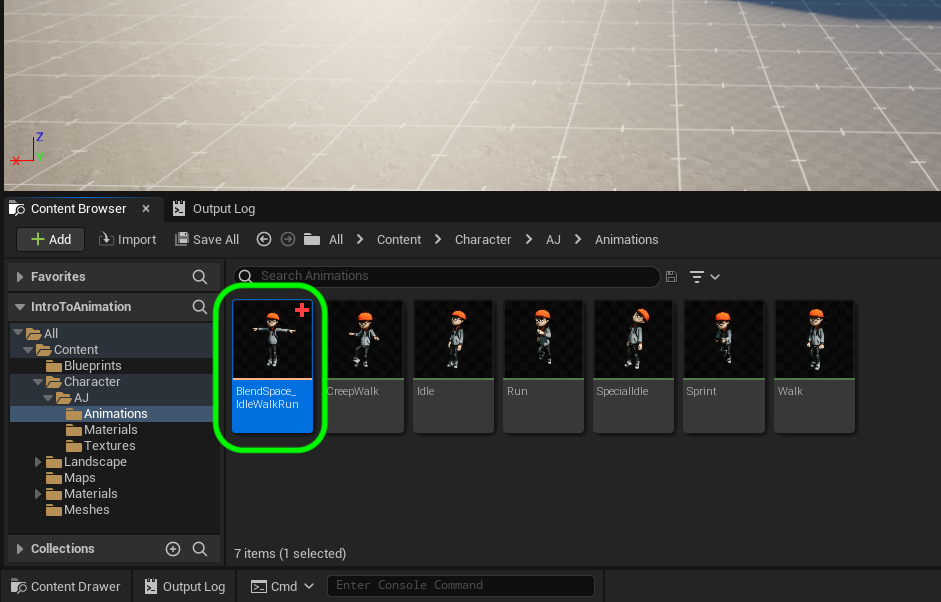
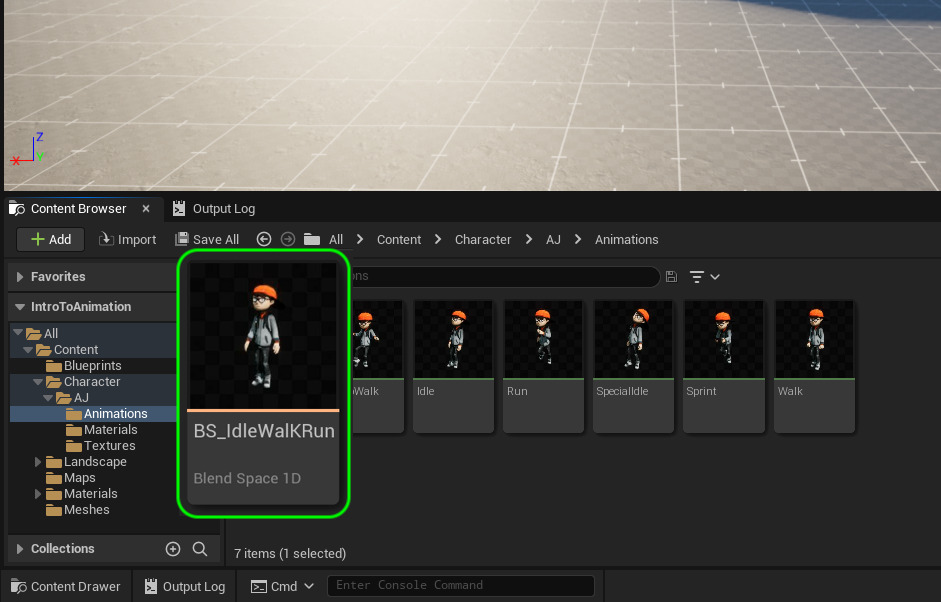
Update to Unreal 5.2

Changed region(s): [[0.1849, 0.3887, 0.4006, 0.8671]]

diff --git a/animation-blend/README.md b/animation-blend/README.md
@@ -28,7 +28,7 @@ This brings up a **Pick Skeleton** overlay. Pick the skeleton you imported.
 
 ##### `Step 3.`\|`ITA`|:small_blue_diamond: :small_blue_diamond: :small_blue_diamond:
 
-Call it `BlendSpace_IdleWalkRun`.
+Call it `BS_IdleWalkRun`.
 
 ![idle walk run](images/IdleWalkRunName.png)
 
